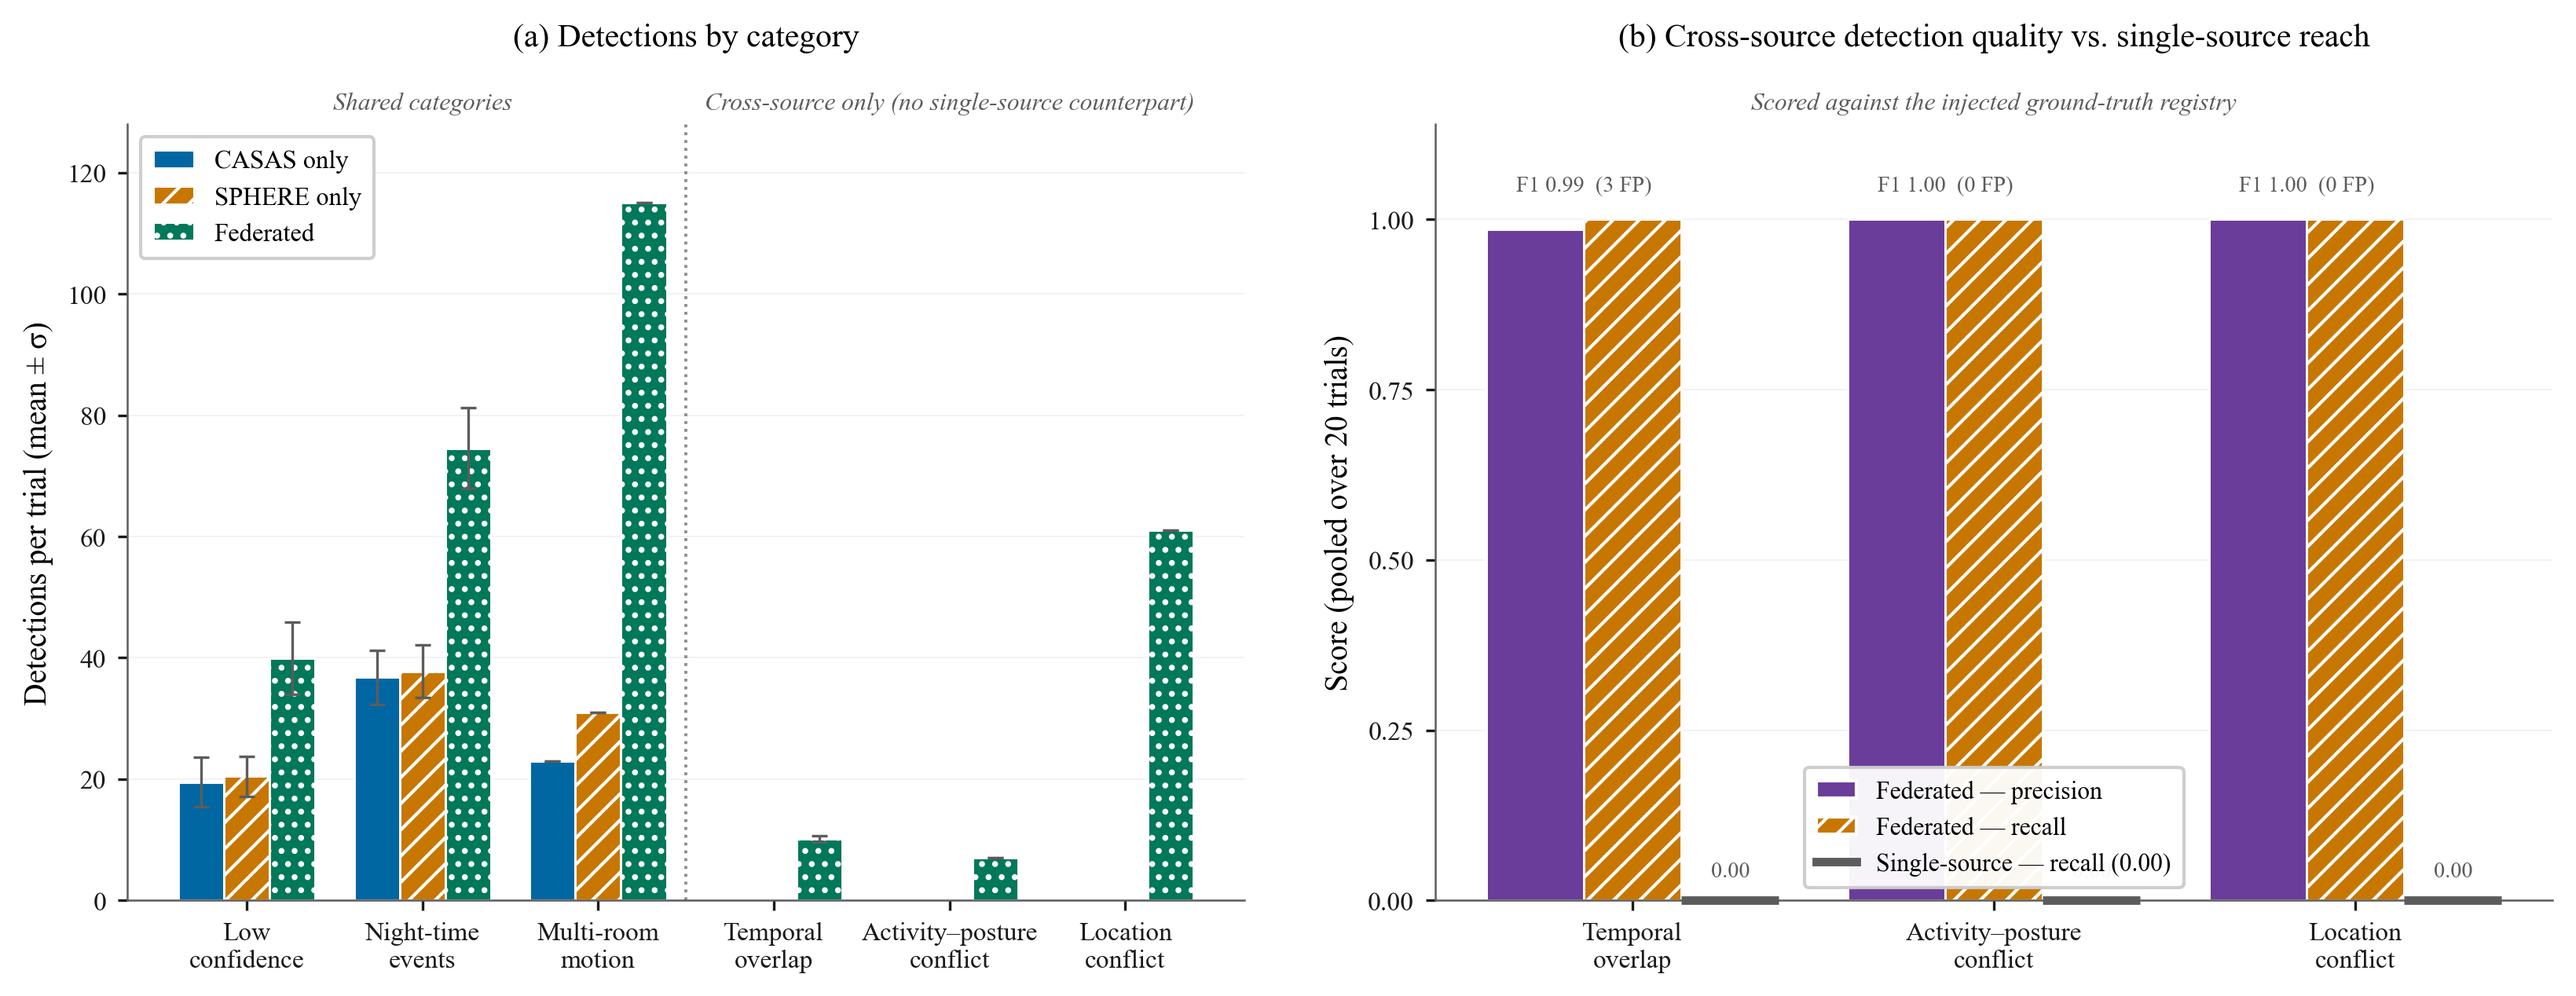
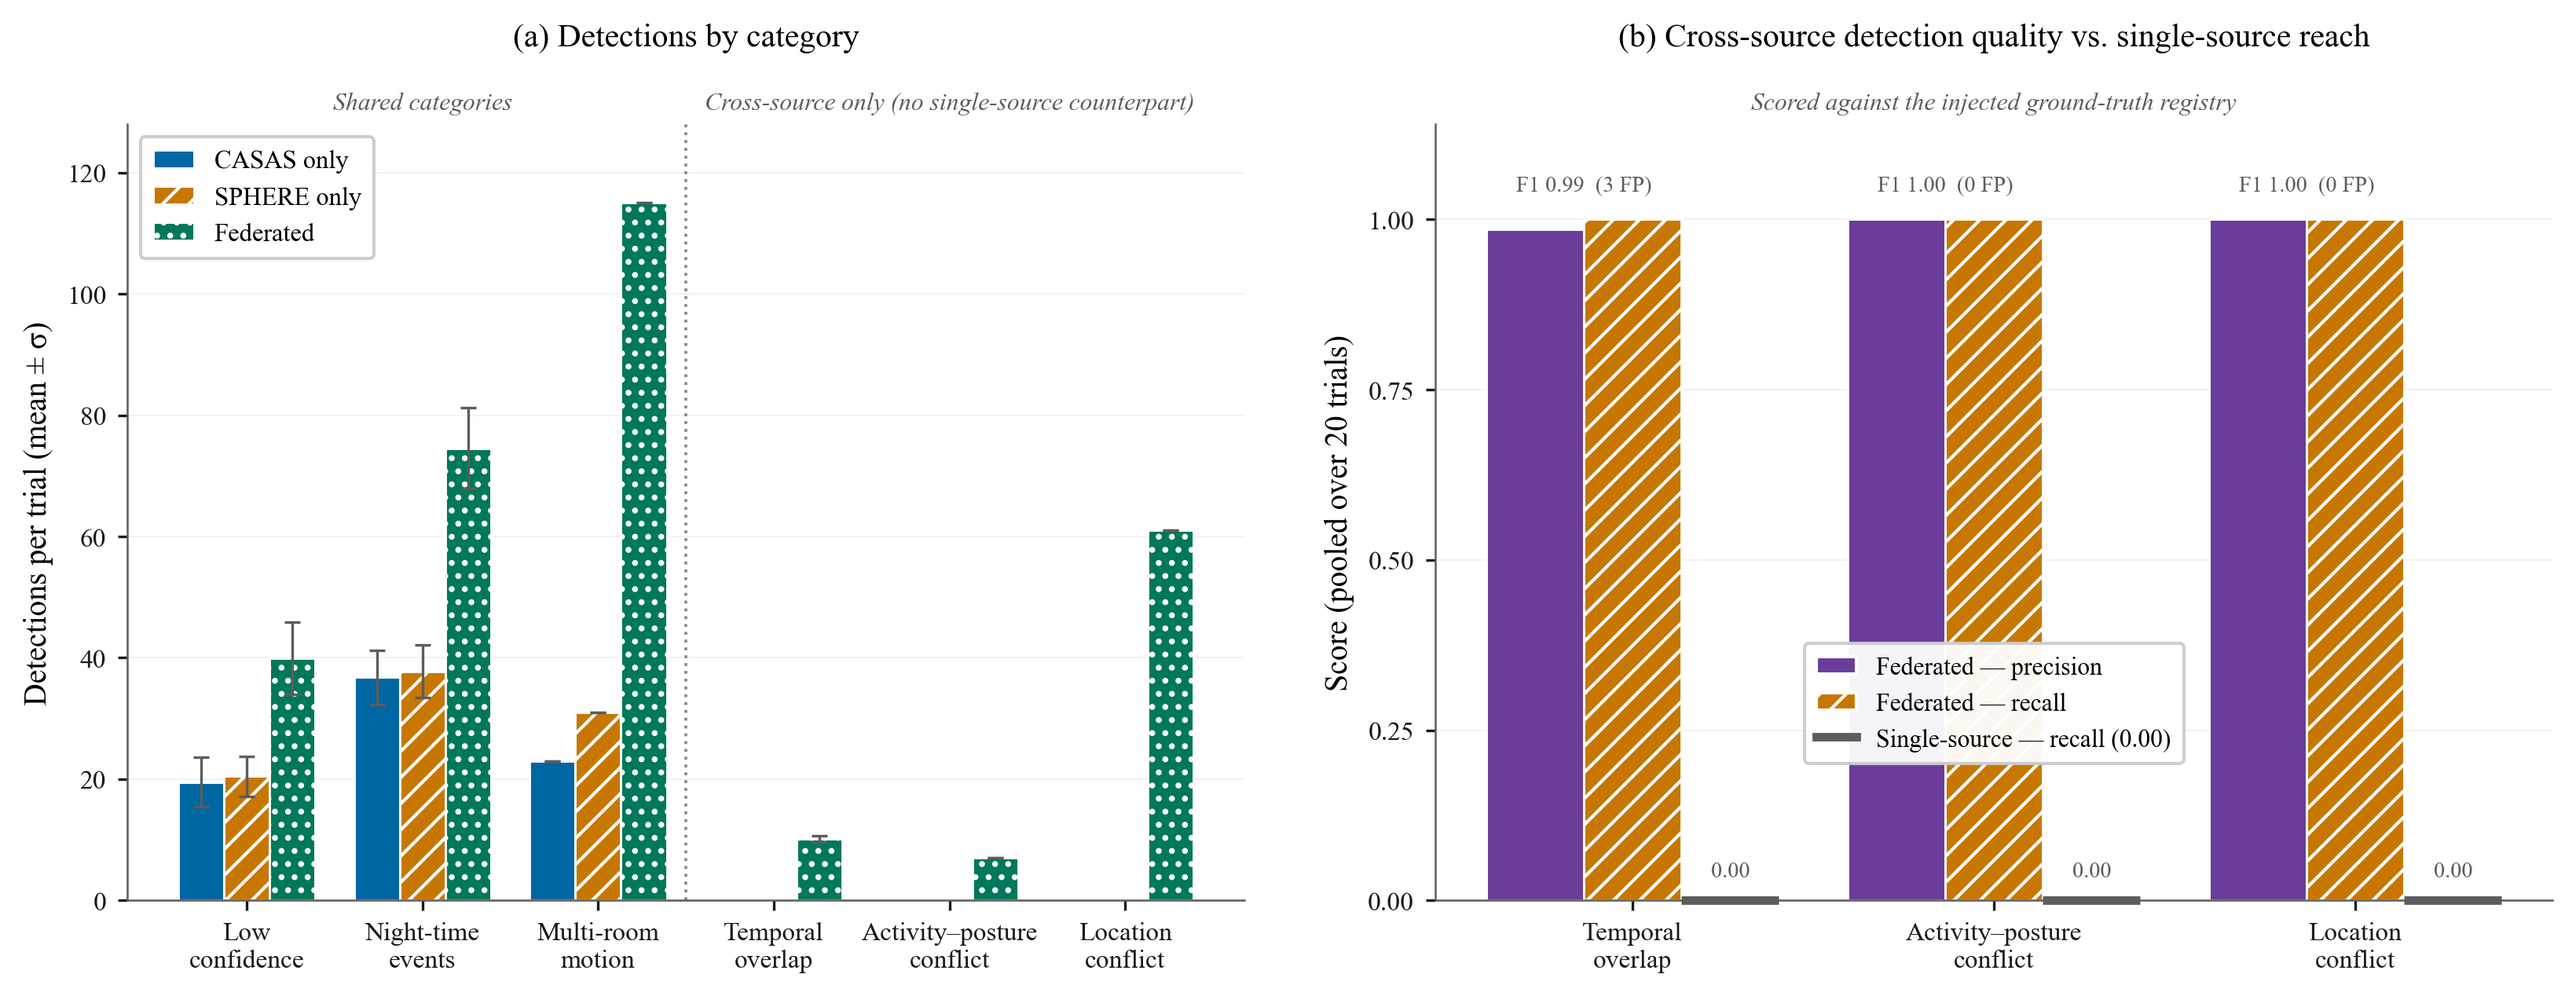
style(fig7): lift panel (b) legend clear of the x axis
Anchored at 0.16 of the axes height so it no longer crowds the x tick labels or
the 0.00 annotations sitting on the baseline. All three zero rules and their
labels are now unobstructed.

Changed region(s): [[0.6844, 0.6459, 0.8399, 0.892]]

diff --git a/fig/generate_federation_figure7.py b/fig/generate_federation_figure7.py
@@ -240,7 +240,10 @@ def _panel_b(ax: plt.Axes, prf: Dict[str, Any]) -> None:
         Line2D([], [], color=INK_MUTED, linewidth=2.6,
                label="Single-source — recall (0.00)"),
     ]
-    ax.legend(handles=handles, fontsize=7.6, loc="lower center", framealpha=0.95,
+    # Lifted clear of the axis so it does not crowd the x tick labels or the
+    # 0.00 annotations sitting on the baseline.
+    ax.legend(handles=handles, fontsize=7.6, loc="lower center",
+              bbox_to_anchor=(0.5, 0.16), framealpha=0.95,
               edgecolor=GRID, borderpad=0.5, handlelength=1.6, ncol=1)
 
 
